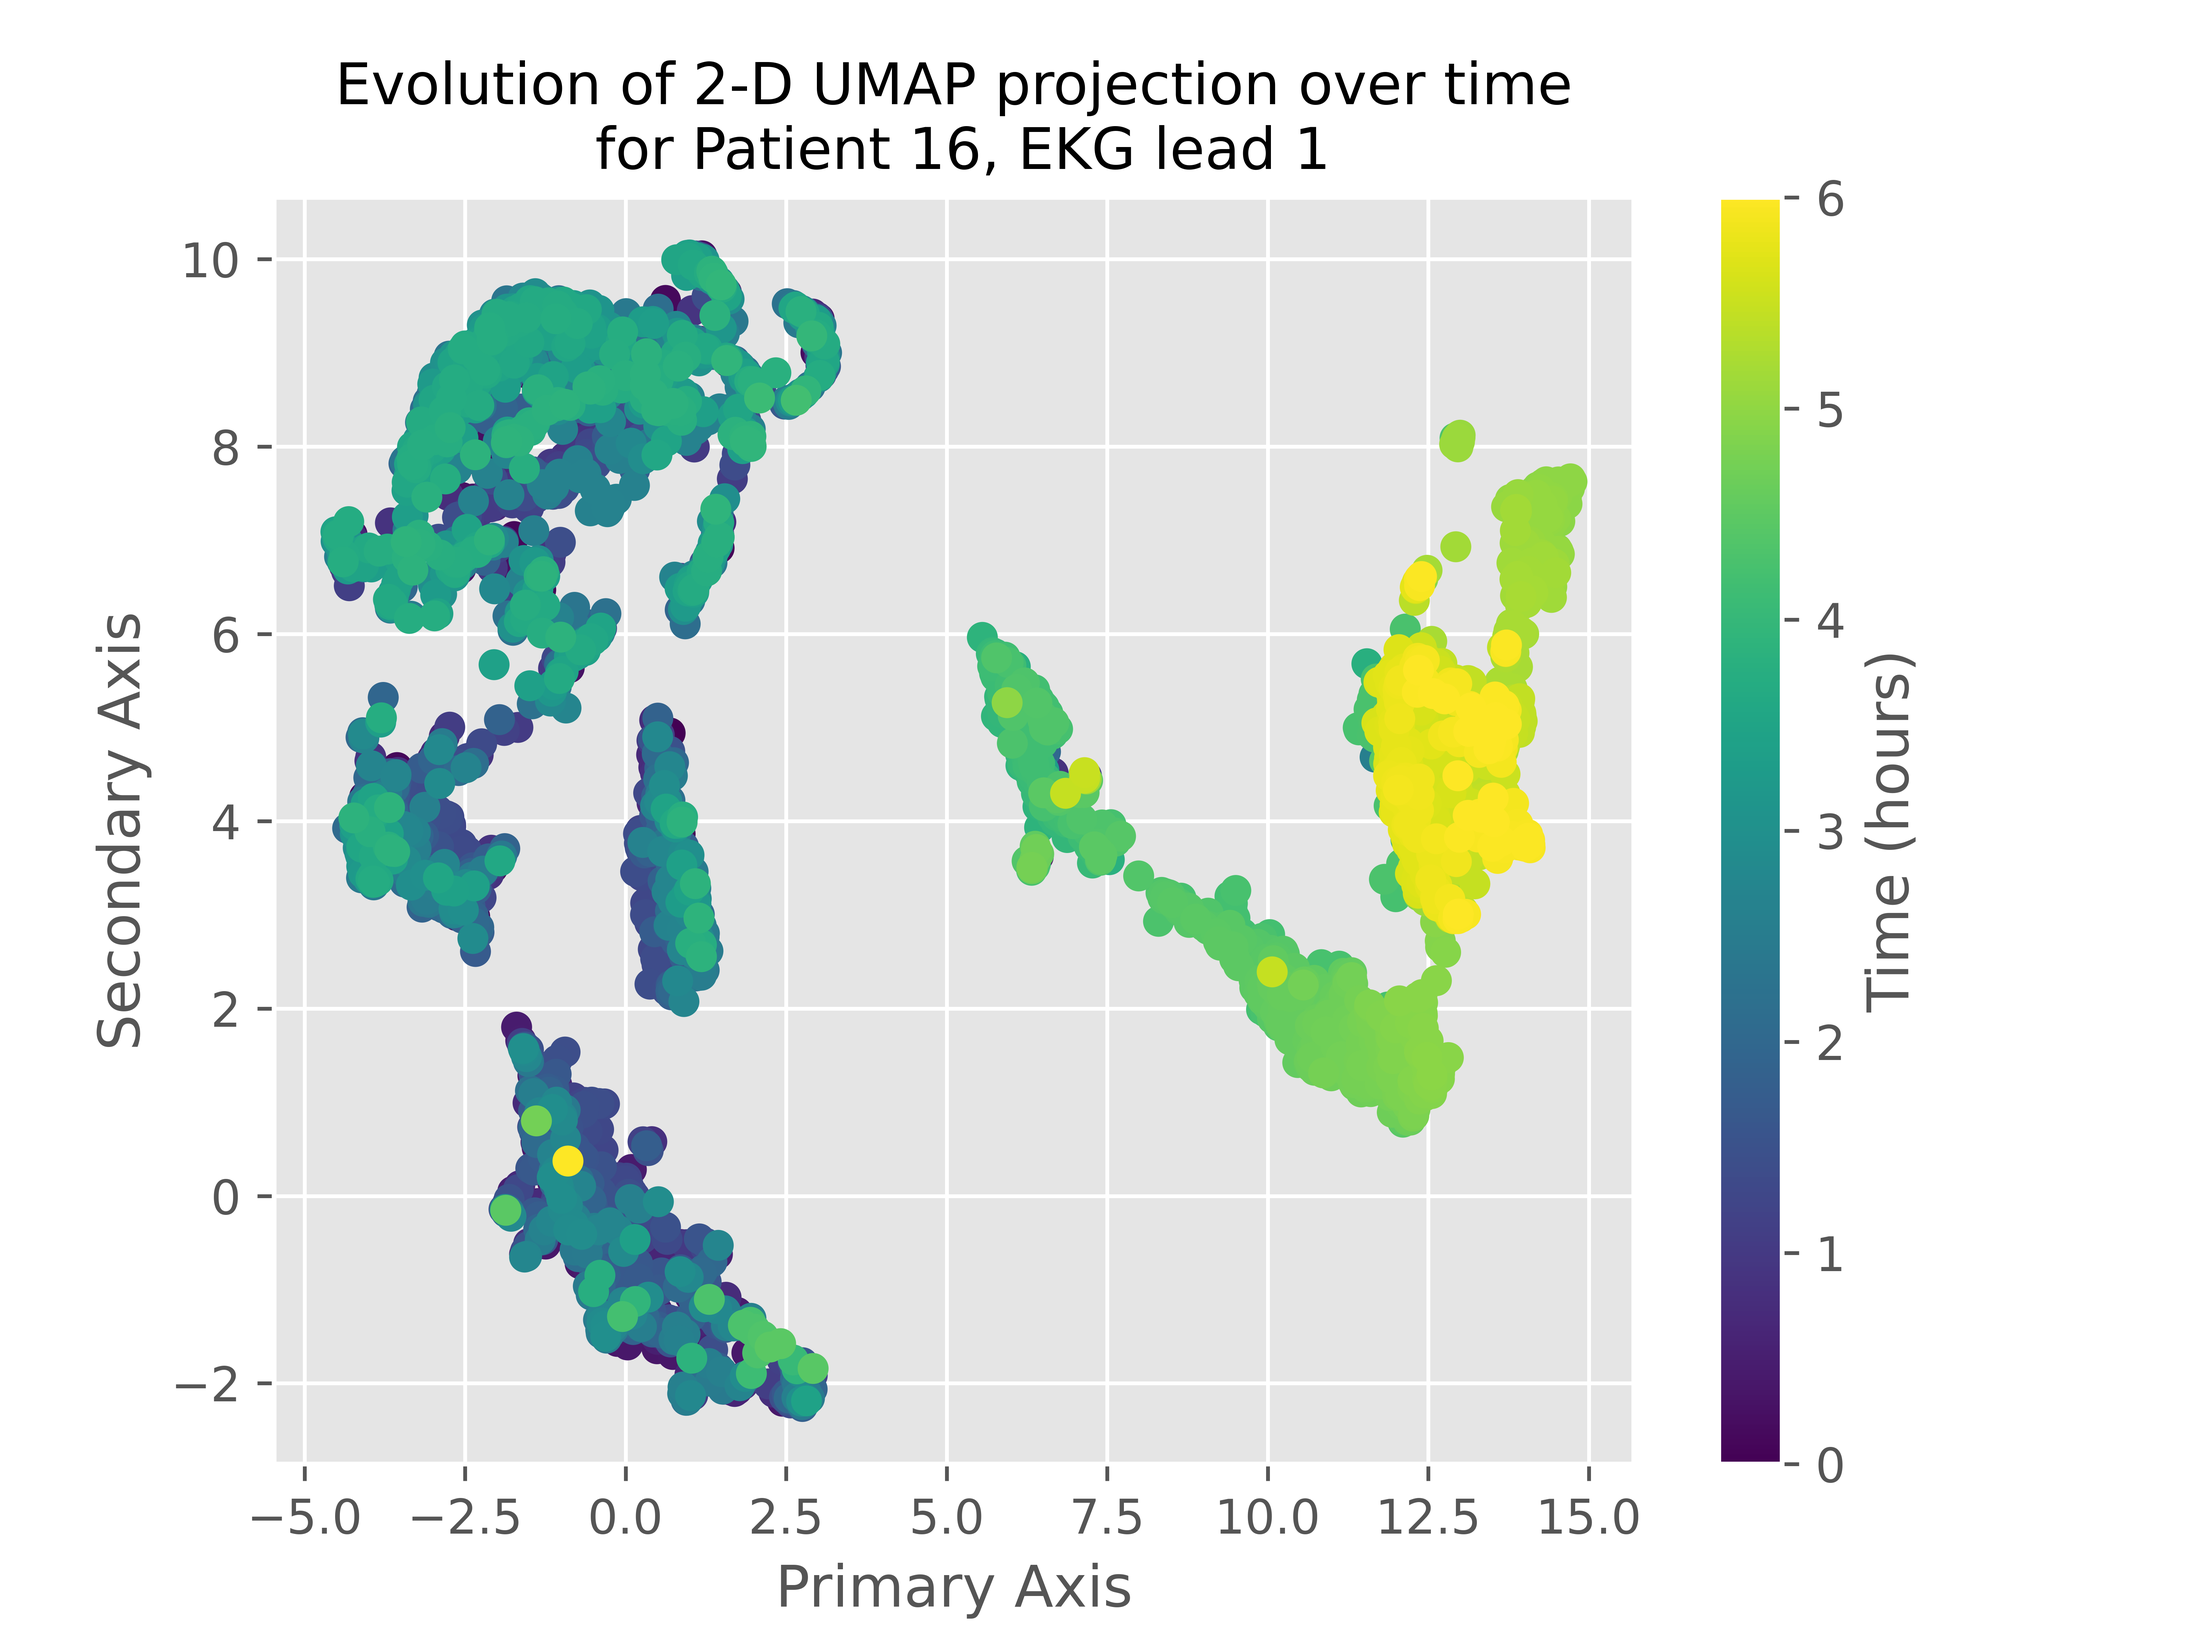
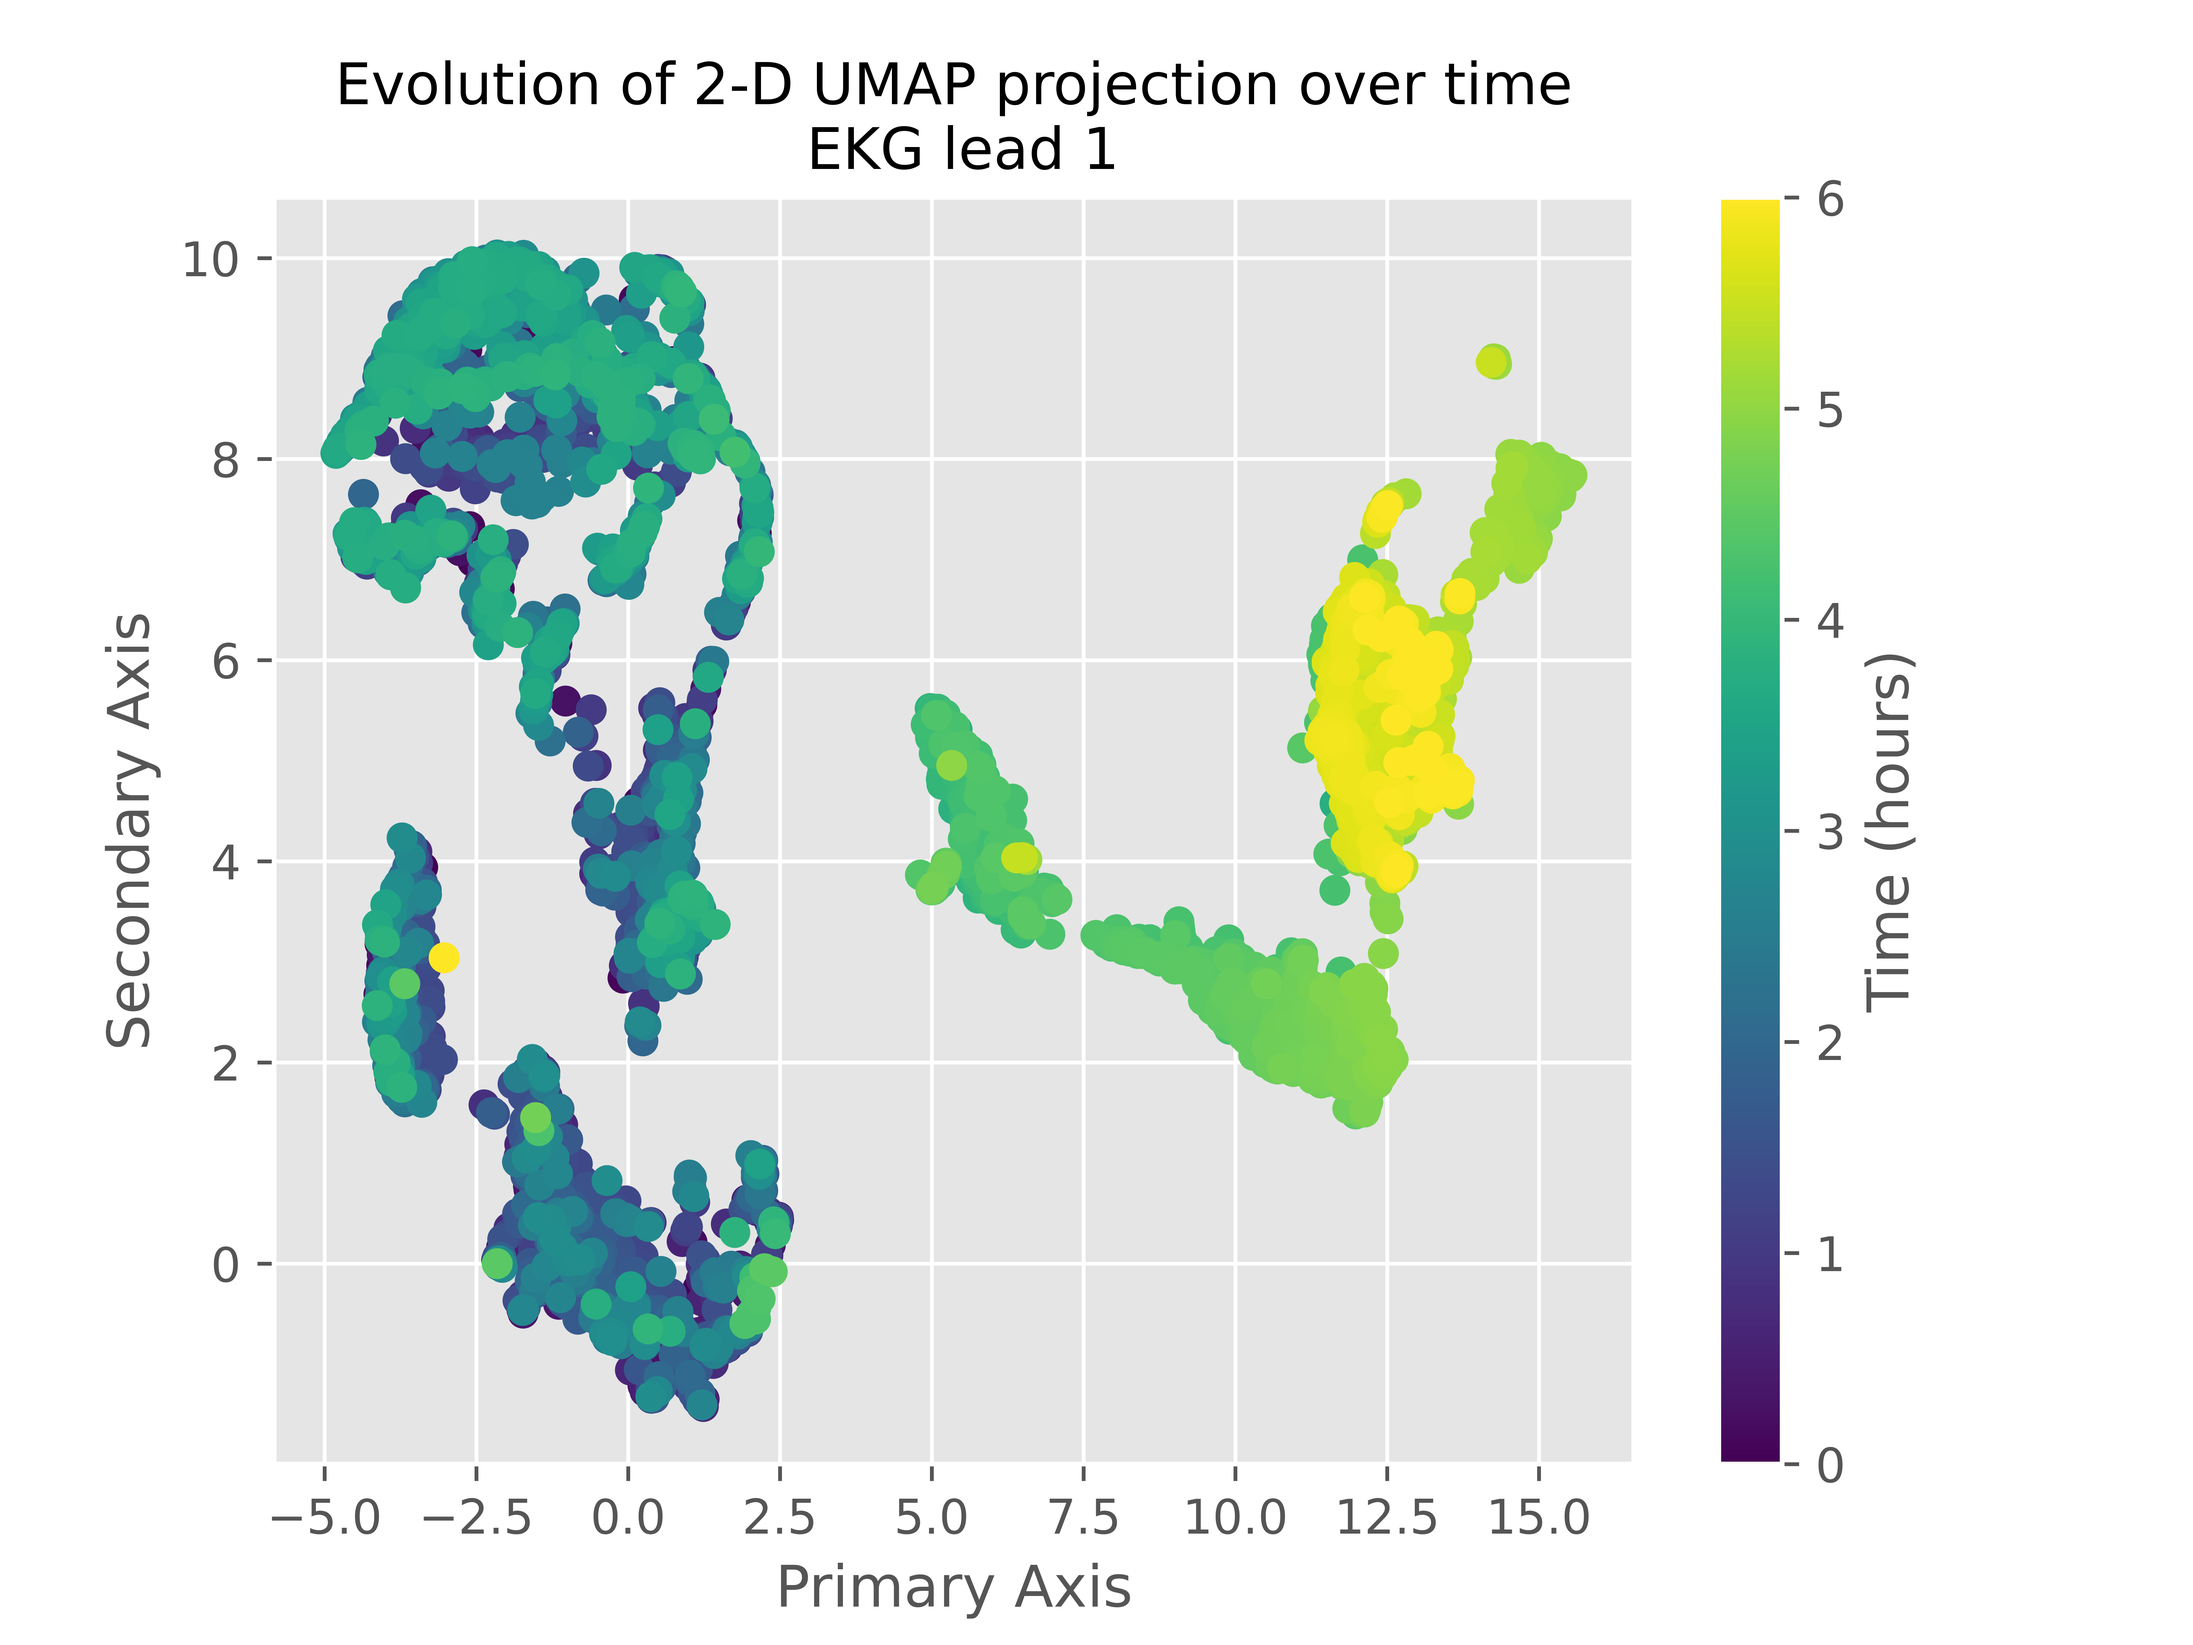
patient-specific plots do not explicitly mention patient number in the figure title

diff --git a/src/models/instability.py b/src/models/instability.py
@@ -93,8 +93,9 @@ def plot_metrics(metric_name, k, patient_idx, model_name, window_size):
     plt.figure()
     window_times = get_windowed_time(patient_idx, 10, window_size)
     plt.plot(window_times, metrics)
-    plt.title("{} of {}-sample windows for Patient {}\n with {} model".format(metric_name.capitalize(), window_size,patient_idx,
-                                                                                                      model_name.upper()))
+    # plt.title("{} of {}-sample windows for Patient {}\n with {} model".format(metric_name.capitalize(), window_size,patient_idx,
+    #                                                                                                   model_name.upper()))
+    plt.title("{} of {}-sample windows with {} model".format(metric_name.capitalize(), window_size, model_name.upper()))
     plt.ylabel("Mean of {} across latent dimensions".format(metric_name))
     plt.xlabel("Window End Sample Idx")
     plt.savefig(f"images/{metric_name.capitalize()}_Idx{patient_idx}.png", dpi=1000)

diff --git a/src/preprocess/dim_reduce/reduction_error.py b/src/preprocess/dim_reduce/reduction_error.py
@@ -232,7 +232,7 @@ def windowed_mse_over_time(patient_num, model_name, dimension_num, window_size):
 
     set_font_size()
     plt.plot(window_times, windowed_errors)
-    plt.title("5-min Windowed (size={} samples) MSE over time\n for patient {} with {} model".format(window_size, patient_num, model_name.upper()))
+    plt.title("5-min Windowed (size={} samples) MSE over time\n with {} model".format(window_size, model_name.upper()))
     plt.xlabel("Time before cardiac arrest (hours)")
     plt.ylabel("Relative MSE")
     plt.savefig(f"images/windowed_mse_Idx{patient_num}.png", dpi=1000)
@@ -261,8 +261,8 @@ if __name__ == "__main__":
     #     #     continue
     #     windowed_mse_over_time(patient, "ae", 10)
 
-    # windowed_mse_over_time(16, "cdae", 100, 50)
-    boxplot_error("cdae", 100, False)
+    windowed_mse_over_time(16, "cdae", 100, 50)
+    # boxplot_error("cdae", 100, False)
 
 
     # compare_dimensions("pca", "1")

diff --git a/src/preprocess/dim_reduce/umap_viz.py b/src/preprocess/dim_reduce/umap_viz.py
@@ -40,7 +40,8 @@ def plot_umap(file_index, lead_num):
     colors = [cm(1. * i / len(coordinates)) for i in range(len(coordinates))]
     sc = plt.scatter(coordinates[:,0], coordinates[:,1], c=colors)
     set_font_size()
-    plt.title("Evolution of 2-D UMAP projection over time\n for Patient {}, EKG lead {}".format(file_index, lead_num))
+    # plt.title("Evolution of 2-D UMAP projection over time\n for Patient {}, EKG lead {}".format(file_index, lead_num))
+    plt.title("Evolution of 2-D UMAP projection over time\n EKG lead {}".format(lead_num))
     plt.xlabel('Primary Axis')
     plt.ylabel('Secondary Axis')
     plt.clim(0,6)

diff --git a/src/preprocess/dim_reduce/pca.py b/src/preprocess/dim_reduce/pca.py
@@ -70,7 +70,8 @@ def plot_2d(file_index, lead_num):
     colors = [cm(1. * i / len(coordinates)) for i in range(len(coordinates))]
     set_font_size()
     sc = plt.scatter(coordinates[:,0], coordinates[:,1], c=colors)
-    plt.title("Evolution of 2-D PCA projection over time\n for Patient {}, EKG Lead {}".format(file_index, lead_num))
+    # plt.title("Evolution of 2-D PCA projection over time\n for Patient {}, EKG Lead {}".format(file_index, lead_num))
+    plt.title("Evolution of 2-D PCA projection over time\n for EKG Lead {}".format(lead_num))
     cbar = plt.colorbar(sc)
     cbar.set_label("Time (hours)")
     plt.clim(0,6)
